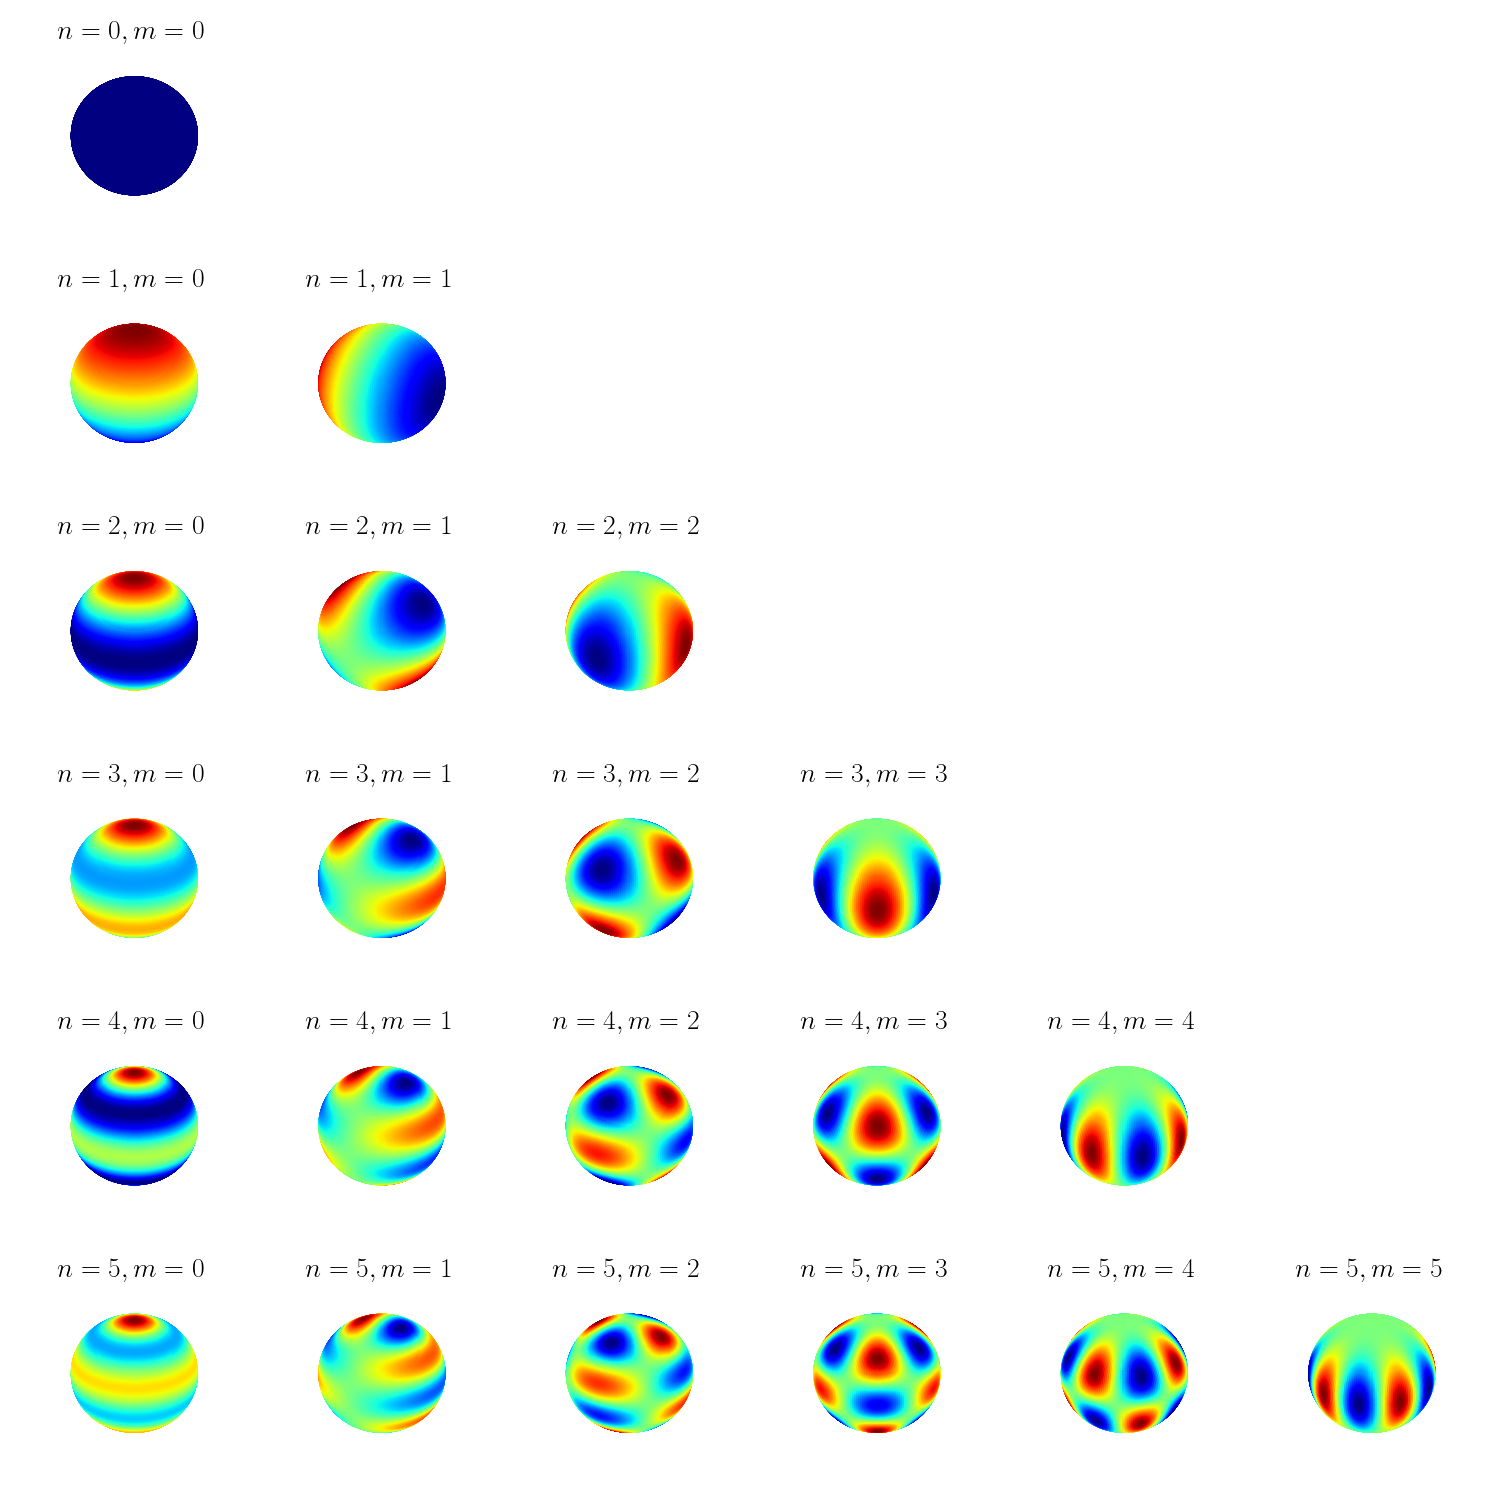
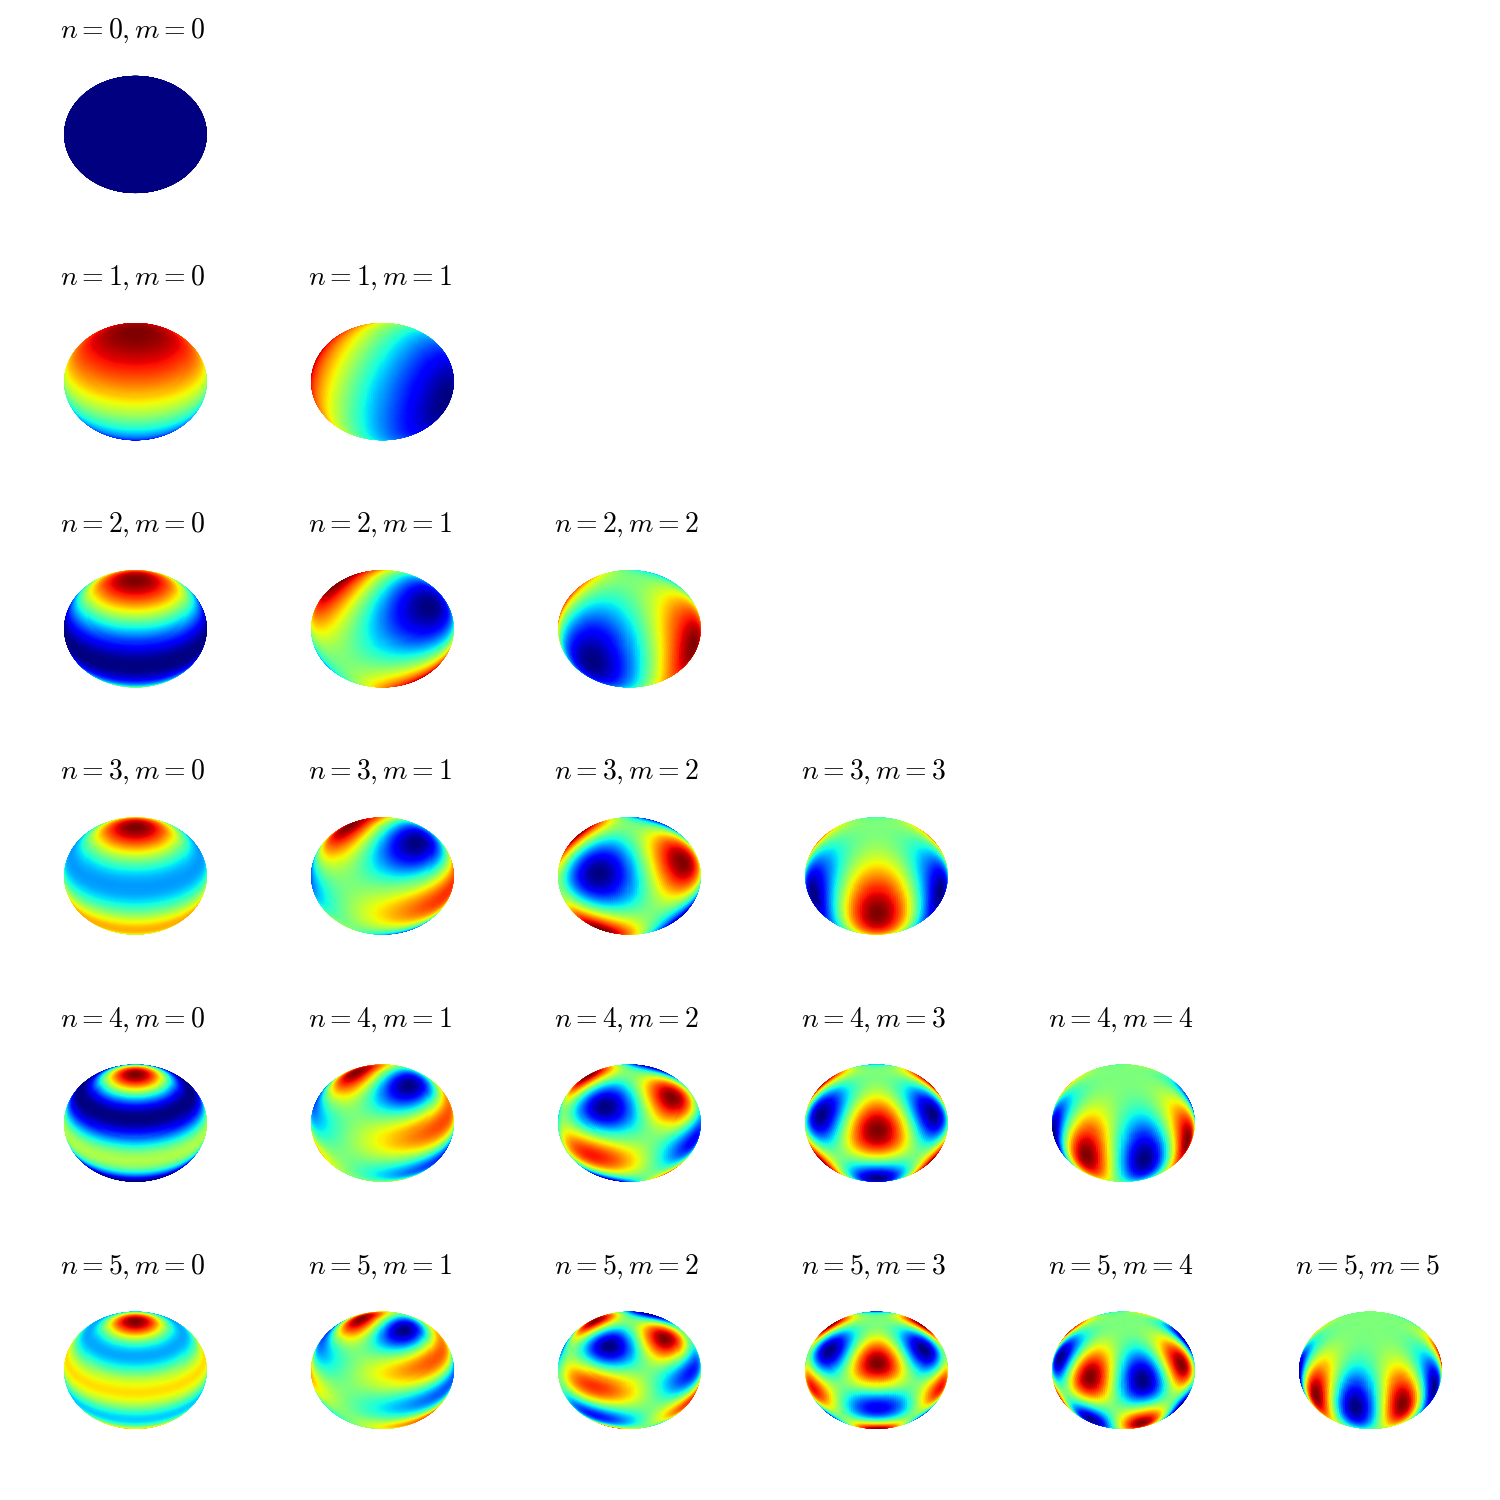
actualizado código

diff --git a/figuras-editables/Graficos-AE-esfera-colores.py b/figuras-editables/Graficos-AE-esfera-colores.py
@@ -3,35 +3,33 @@ import numpy as np
 import matplotlib.pyplot as plt
 from mpl_toolkits.mplot3d import Axes3D
 from matplotlib import cm, colors
-#style.use('classic')
-plt.rc('text', usetex=True)
+plt.style.use('classic')
 
-t,p = np.meshgrid(np.linspace(0,np.pi,200),np.linspace(0,2*np.pi,200)) #arrays de variables angulares
+th,ph = np.meshgrid(np.linspace(0,np.pi,200),np.linspace(0,2*np.pi,200)) #arrays de variables angulares
 
 def X(R):
-    return R*np.sin(t)*np.cos(p)
+    return R*np.sin(th)*np.cos(ph)
 
 def Y(R):
-    return R*np.sin(t)*np.sin(p)
+    return R*np.sin(th)*np.sin(ph)
 
 def Z(R):
-    return R*np.cos(t)
+    return R*np.cos(th)
 
 nmax = 5
 
 fig = plt.figure(figsize=(3*nmax,3*nmax))
 for n in range(nmax+1):
     for m in range(n+1):
-        #print(n,m)
+        print(n,m)
         ax = fig.add_subplot(nmax+1, nmax+1, (nmax+1)*n+1+m, projection='3d')
-        C = sp.sph_harm(m, n, p, t).real
+        f = sp.sph_harm_y(n, m, th, ph).real # evalúa la parte real del armónico esférico
         norm = colors.Normalize()
-        ax.plot_surface(X(1),Y(1),Z(1),rstride=1, cstride=1,norm=norm,cmap=cm.jet,facecolors=cm.jet(norm(C)))
+        ax.plot_surface(X(1),Y(1),Z(1),rstride=1, cstride=1,norm=norm,cmap=cm.jet,facecolors=cm.jet(norm(f)))
         ax.set_title('$n = %d, m= %d$'%(n,m), fontsize=20)
-        #ax.set_frame_on(False)
         ax.set_axis_off()
-        cosa = cm.ScalarMappable(cmap=cm.jet)
-        cosa.set_array(C)
+        colores = cm.ScalarMappable(cmap=cm.jet)
+        colores.set_array(f)
         ax.set_xlim(-1,1)
         ax.set_ylim(-1,1)
         ax.set_zlim(-1,1)
